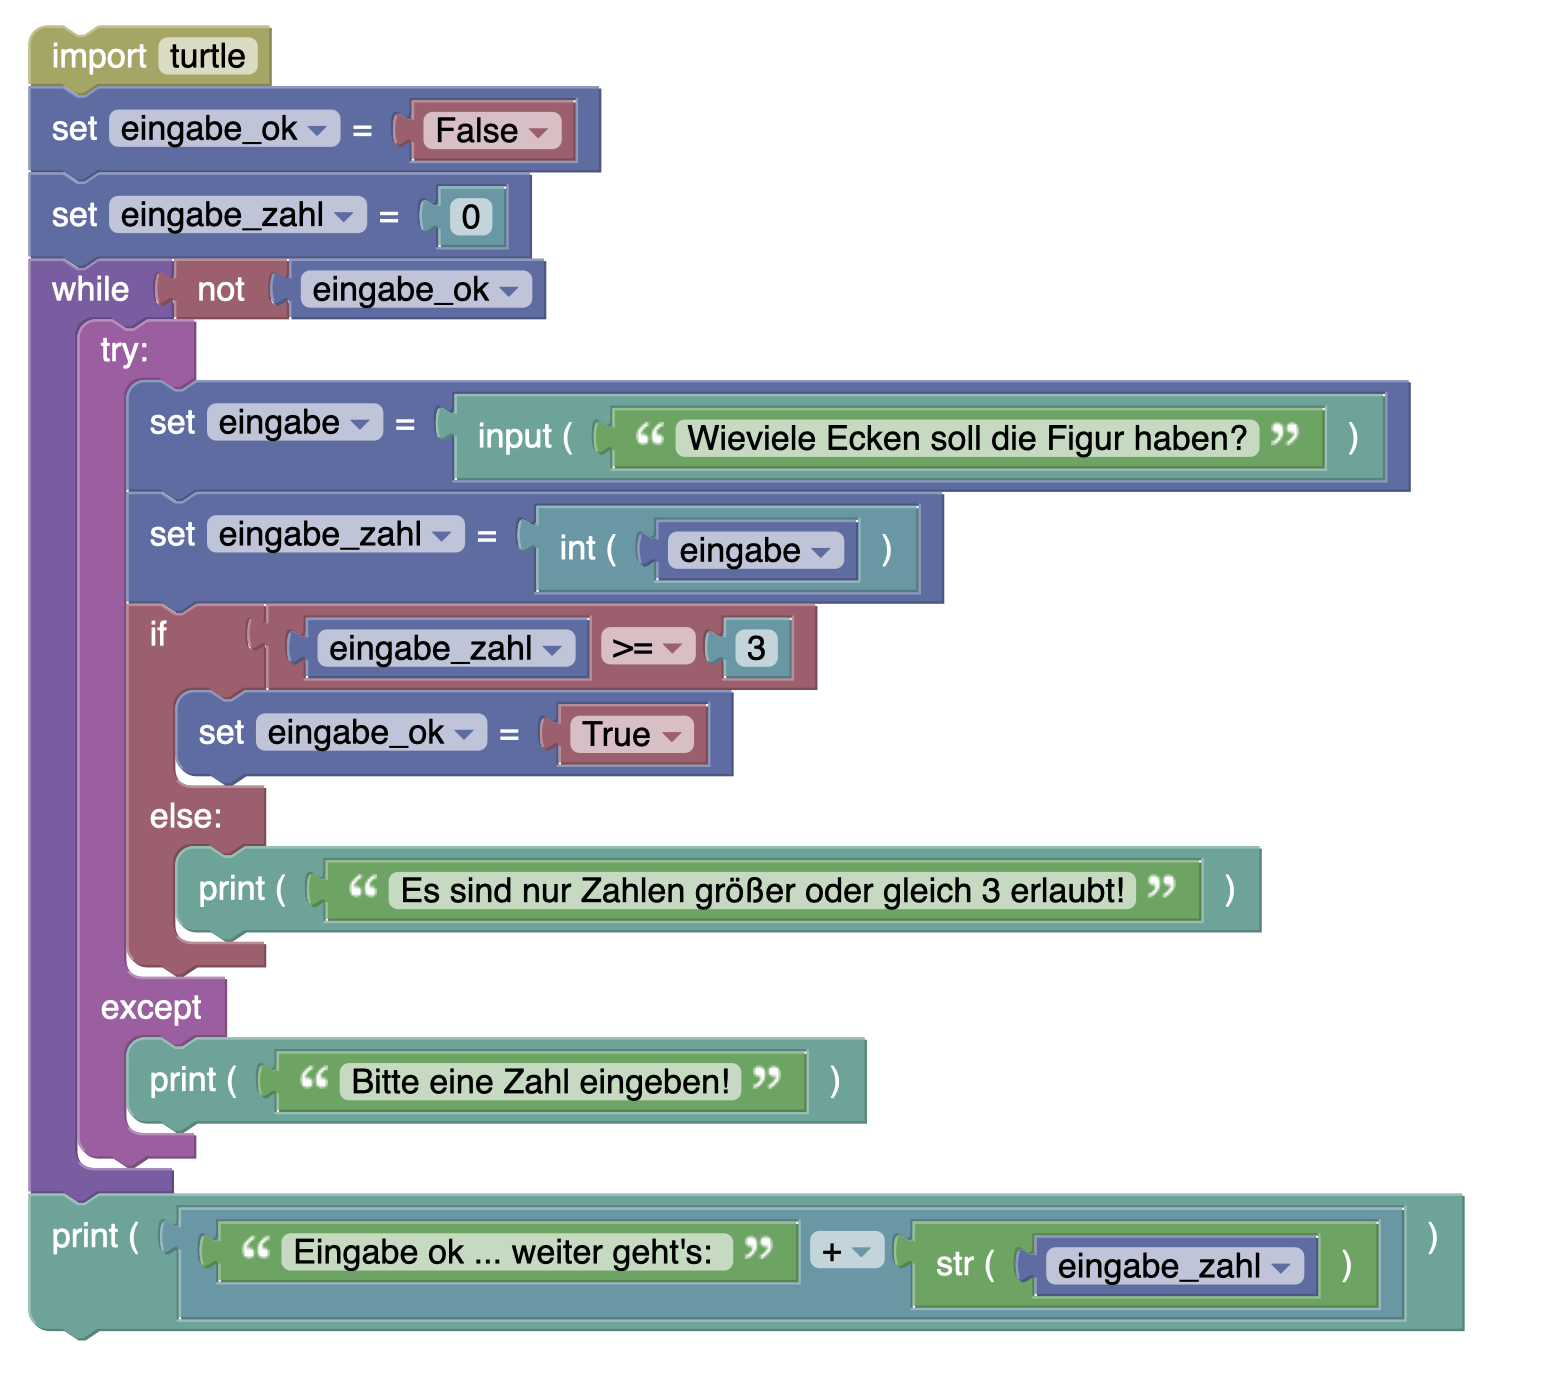
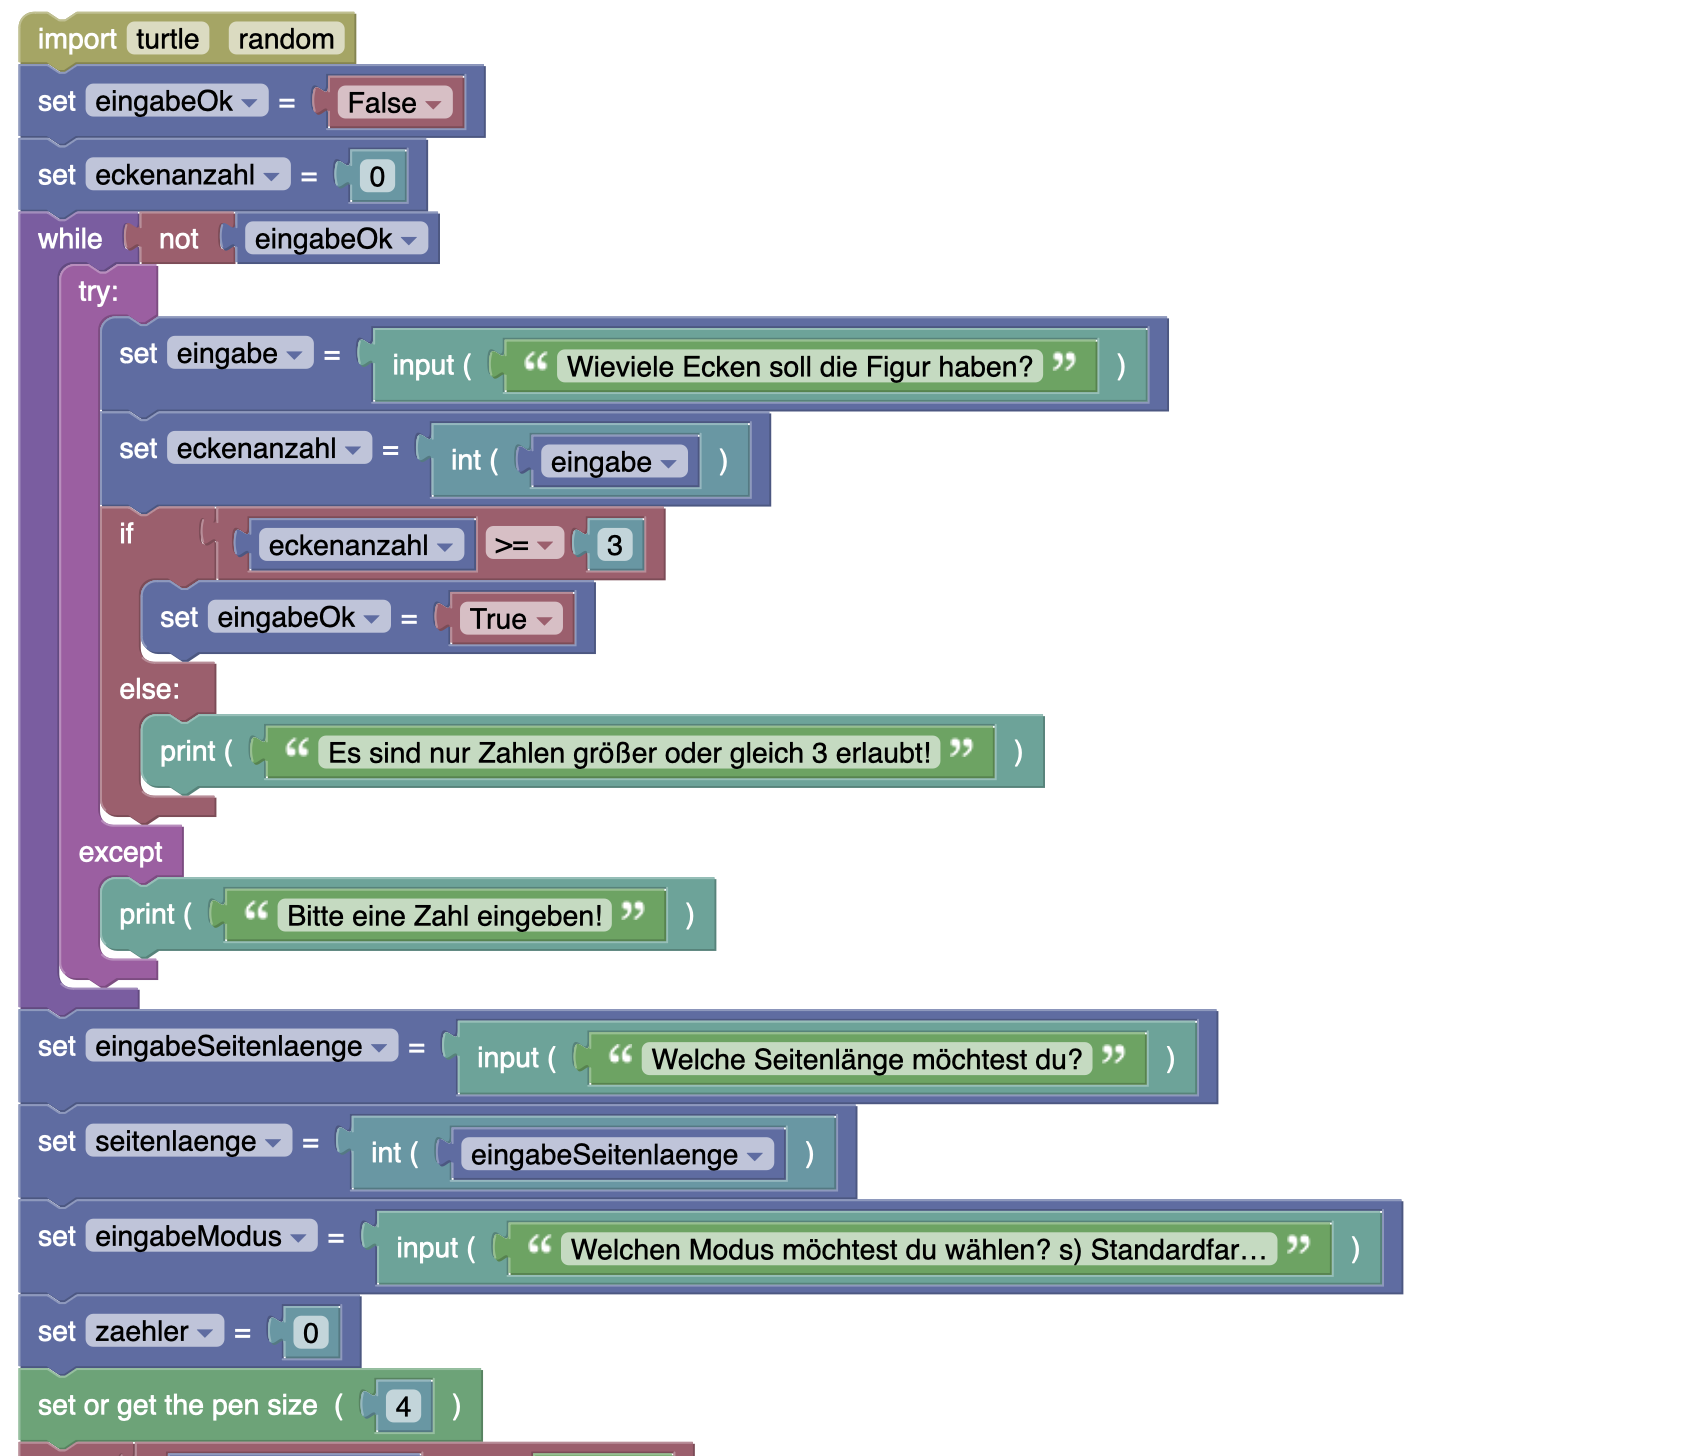
Refactoring V 0_6

diff --git a/VO-Teil-1/GrundkonzepteProgrammierung/Polygonix/README.md b/VO-Teil-1/GrundkonzepteProgrammierung/Polygonix/README.md
@@ -630,11 +630,11 @@ Rest wie vorher ...
 ```
 
 #### Struktogramm
-Es folgt das Struktogramm für den Teil der Eingabevalidierung für die Eckenanzahl (der Rest der App bleibt gleich):
+Es folgt das Struktogramm für den Teil der Eingabevalidierung für die Eckenanzahl. Das Struktogramm für den Rest der App bleibt gleich (siehe vorherige Polygonix-Version).
 
 ![](bilder/polygonix_0_6.png)
 
-#### Zustandsdiagramm
+#### Exkurs: Zustandsdiagramm
 Als alternative grafische Modellierungstechnik zu einem Struktogramm eignen sich manchmal auch Zustandsdiagramme.
 
 Das folgende Zustandsdidagramm modelliert ebenfalls die oben beschriebene Eingabevalidierung:
@@ -655,32 +655,60 @@ stateDiagram-v2
 #### Blöcke
 
 <img src="bilder/polygonix_blocks_0_6_1.png" width="80%" />
+<img src="bilder/polygonix_blocks_0_6_2.png" width="80%" />
 
 #### Python
 
+Das folgende Python-Programm zeigt das gesamte Programm, nun jedoch mit Eingabevalidierung für Zahlen.
+
 ```python
-import turtle
-eingabe_ok = False
-eingabe_zahl = 0
-while not eingabe_ok:
+import turtle, random
+eingabeOk = False
+eckenanzahl = 0
+while not eingabeOk:
     try:
         eingabe = input("Wieviele Ecken soll die Figur haben?")
-        eingabe_zahl = int(eingabe)
-        if eingabe_zahl >= 3:
-            eingabe_ok = True
+        eckenanzahl = int(eingabe)
+        if eckenanzahl >= 3:
+            eingabeOk = True
         else:
             print("Es sind nur Zahlen größer oder gleich 3 erlaubt!")
     except:
         print("Bitte eine Zahl eingeben!")
-print("Eingabe ok ... weiter geht's: " + str(eingabe_zahl))
+eingabeSeitenlaenge = input("Welche Seitenlänge möchtest du?")
+seitenlaenge = int(eingabeSeitenlaenge)
+eingabeModus = input("Welchen Modus möchtest du wählen? s) Standardfarben z) Zufallsfarben")
+zaehler = 0
+turtle.pensize(4)
+if eingabeModus == "s":
+    while zaehler < eckenanzahl:
+        if zaehler % 2 == 0: # Rest bei Division durch 2 gleich 0?
+            turtle.pencolor('blue')
+        else:
+            turtle.pencolor('black')
+        turtle.forward(seitenlaenge)
+        turtle.right(360/eckenanzahl)
+        zaehler = zaehler + 1
+elif eingabeModus == "z":
+    farben = ['blue', 'red', 'green', 'yellow', 'black', 'orange','violet','pink','brown']
+    while zaehler < eckenanzahl:
+        zufallFarbe = farben[random.randint(0, len(farben)-1)]
+        turtle.pencolor(zufallFarbe)
+        turtle.forward(seitenlaenge)
+        turtle.right(360/eckenanzahl)
+        zaehler = zaehler + 1
+else:
+    print("Für die Wahl des Modus ist nur z oder s erlaub!")
+
+
 ```
 
-### Implementierung (Variante als Automat entsprechend dem Zustandsdiagramm)
+### Exkurs: Implementierung (Variante als Automat entsprechend dem Zustandsdiagramm)
 Die folgende Variante zeigt eine alternative Implementierung der Eingabevalidierung als prototypische Umsetzung des Zustandsdiagramms in Form eines endlichen Automaten
 
 #### Blöcke
 
-<img src="bilder/polygonix_blocks_0_6_2.png" width="80%" />
+<img src="bilder/polygonix_blocks_0_6_2_nur_validierung.png" width="80%" />
 
 #### Python
 
@@ -710,10 +738,6 @@ while zustand != "Ende":
         zustand = "Ende"
 print("Eingabe ok ... weiter geht's: " + str(eingabe_zahl))
 ```
-
-
-
-
 
 ## POLYGONIX VERSION 0.7
 
